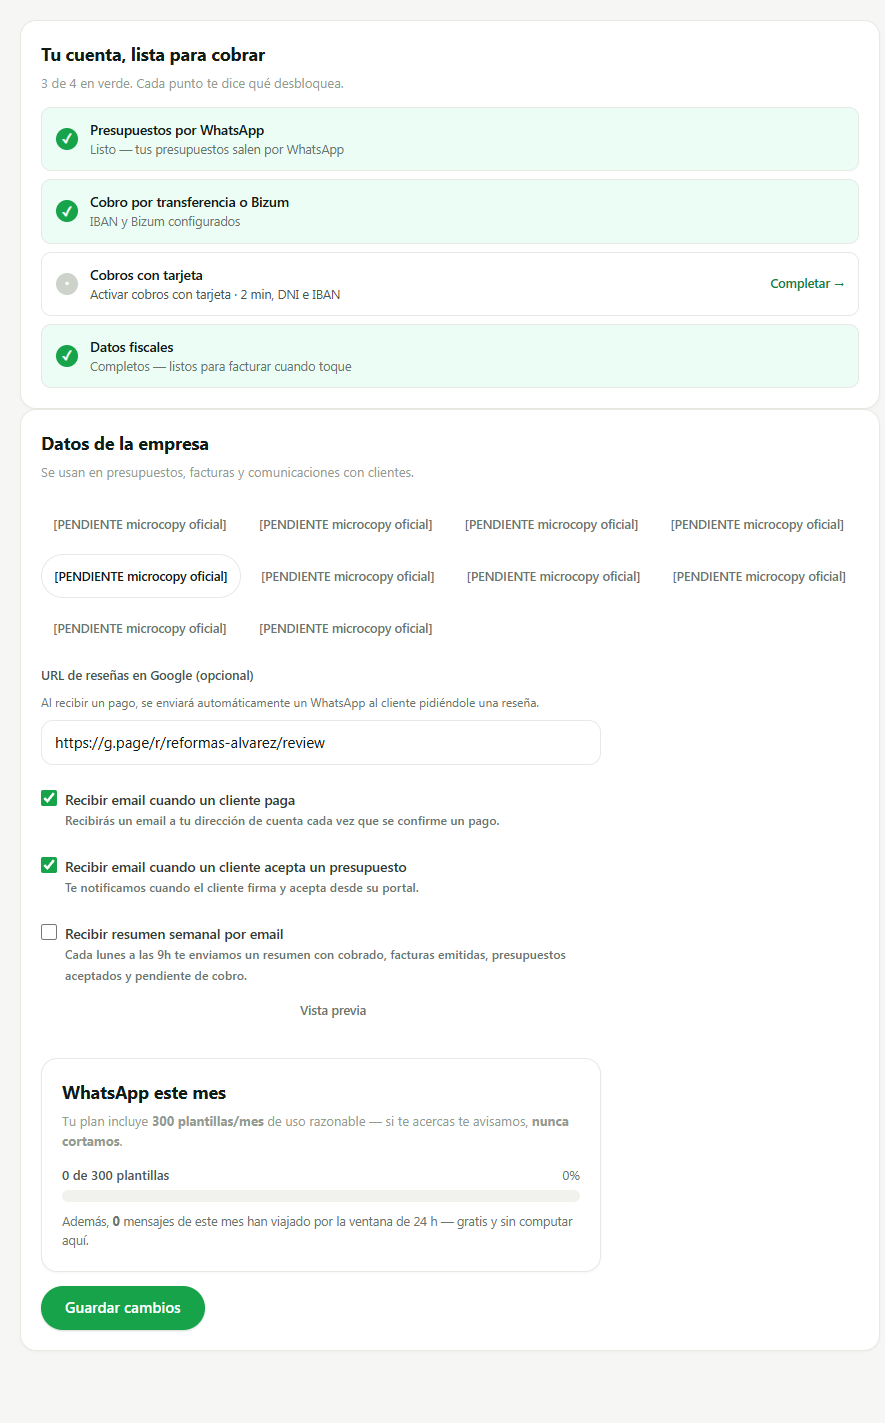
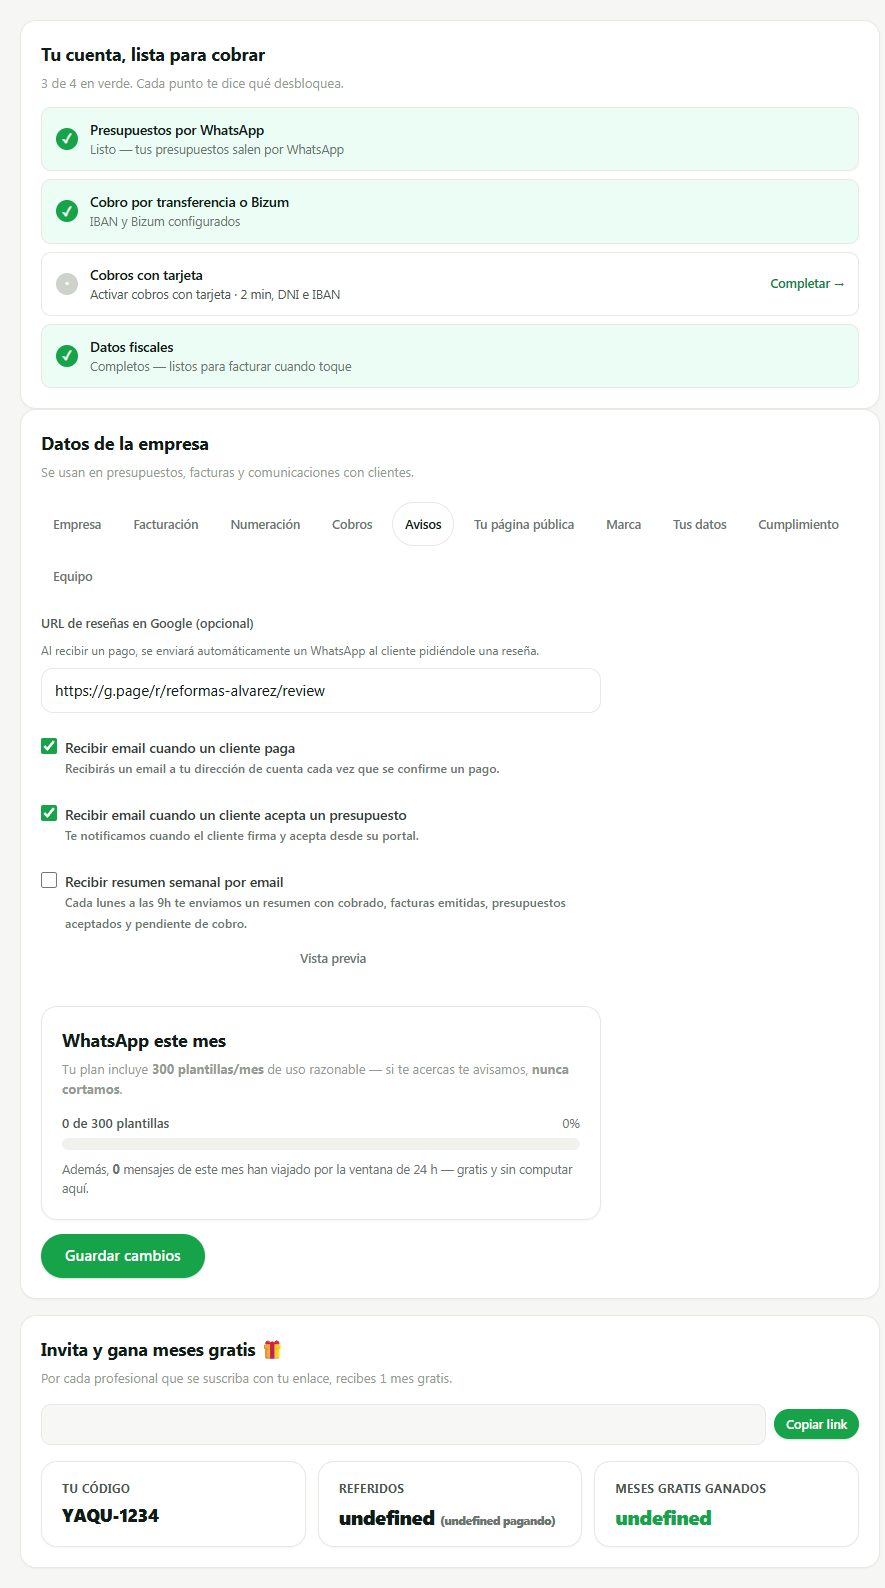
SCRUM-284: rotulos aprobados aplicados y "Invita y gana" enlazada provisional
DOS CORRECCIONES DEL FUNDADOR.

(1) "Invita y gana" SE ENLAZA PROVISIONALMENTE. Yo la deje sin llamar; la
correccion tiene razon: el programa de referidos paga un mes gratis al
referidor, o sea que es DINERO, y que desaparezca de la interfaz "solo durante
un PR" es una regresion real. La orden "el menu crece cuando existe el destino"
valia para crear entradas nuevas, no para dejar huerfana una que ya funcionaba.
Se sigue pintando al final de Configuracion, fuera de los diez paneles, y queda
en SUPERFICIES_PROVISIONALES con lo que la sustituye (incremento 2).

El guard exige LAS DOS MITADES, que es lo que evita que "provisional" se vuelva
permanente: que la colocacion este declarada Y que se siga pintando. Declararla
sin pintarla seria la regresion; pintarla sin declararla seria olvidarla.

(2) LOS DIEZ ROTULOS SE APLICAN. No era redaccion nueva: los nueve primeros
estan en la descripcion del ticket y el decimo es el nombre que uso el fundador
al colocar approvalThreshold. Aterrizarlos no fue escribir microcopy, fue dejar
de usar el marcador.

Y habia un motivo de MEDICION para hacerlo antes de capturar: con el marcador
(28 caracteres) las diez pestanas caian UNA POR FILA a 390 px, asi que las
capturas median el marcador y no la pantalla. Con los textos reales: cuatro
filas (3+3+3+1), pestana mas ancha 124 px, 44 px de alto, sin desbordamiento en
X. NO habia problema de layout: era el marcador. Por eso no sale hallazgo ni
[…]

diff --git a/public/dashboard/js/settingsSubmenus.js b/public/dashboard/js/settingsSubmenus.js
@@ -29,8 +29,43 @@ var SUBMENUS = [
   'publica', 'marca', 'datos', 'cumplimiento', 'equipo',
 ];
 
-// Regla 30: los rótulos de los diez NO están aprobados. Se pintan con el marcador y hay guard.
+// Marcador de regla 30. YA NO lo usan los rótulos de los diez (ver `ROTULOS`), pero sí los textos
+// del estado vacío, que son redacción nueva y NO están aprobados.
 var MARCA_MICROCOPY_SUBMENU = '[PENDIENTE microcopy oficial]';
+
+/**
+ * LOS DIEZ RÓTULOS — APROBADOS por el fundador (5-ago-2026, regla 30).
+ *
+ * No es redacción nueva y por eso se aprobaron de una vez: **los nueve primeros están escritos en la
+ * descripción del ticket** y el décimo es el nombre que usó el fundador al colocar
+ * `approvalThreshold`. Aterrizarlos no es escribir microcopy, es dejar de usar el marcador.
+ *
+ * Y había un motivo de medición para hacerlo YA: con el marcador (28 caracteres) las diez pestañas
+ * caían **una por fila** a 390 px, así que las capturas estaban midiendo el marcador y no la
+ * pantalla. Con los rótulos reales se sabe de verdad cómo se agrupan.
+ *
+ * Fijados carácter a carácter en `tests/scrum284-configuracion-submenus.test.mjs`: cambiarlos sin
+ * pasar por el fundador sale rojo.
+ */
+var ROTULOS = {
+  empresa: 'Empresa',
+  facturacion: 'Facturación',
+  numeracion: 'Numeración',
+  cobro: 'Cobros',
+  avisos: 'Avisos',
+  publica: 'Tu página pública',
+  marca: 'Marca',
+  datos: 'Tus datos',
+  cumplimiento: 'Cumplimiento',
+  equipo: 'Equipo',
+};
+
+/** Rótulo de un submenú. Lanza si falta, por lo mismo que `submenuDeCampo`: mejor ruidoso que mudo. */
+function rotuloDeSubmenu(clave) {
+  var r = ROTULOS[clave];
+  if (!r) throw new Error('[settings] submenú sin rótulo: ' + clave);
+  return r;
+}
 
 /** Asignación campo → submenú. La clave es la del censo; el valor, una clave de `SUBMENUS`. */
 var ASIGNACION_SUBMENU = {
@@ -102,6 +137,26 @@ var ASIGNACION_SUPERFICIE = {
   // Bloque inline (no es una funcion render...): estado de Stripe Connect. Es estado + accion, no
   // un ajuste, pero cae solo en Cobros — es de lo que va el submenu.
   connectStatus: 'cobro',
+};
+
+/**
+ * SUPERFICIES CON COLOCACIÓN PROVISIONAL — declarada, con su fecha de caducidad escrita.
+ *
+ * ⚠ EXISTE PORQUE «TEMPORAL» ES EXACTAMENTE COMO SE QUEDAN LAS COSAS. Sacar «Invita y gana» de
+ * Configuración es correcto y su destino es la barra lateral, pero **su entrada en la barra lateral
+ * es el incremento 2**. Entre un incremento y el otro la tarjeta existiría en el código y no la
+ * llamaría nadie: el programa de referidos paga un mes gratis al referidor, así que dejarla
+ * inalcanzable «solo durante un PR» es una REGRESIÓN DE DINERO, no un detalle de orden.
+ *
+ * Se sigue pintando donde está hoy —tarjeta suelta al final de Configuración, fuera de los diez
+ * paneles— y aquí queda escrito que es provisional y qué la sustituye.
+ */
+var SUPERFICIES_PROVISIONALES = {
+  renderReferralCard:
+    'PROVISIONAL hasta el incremento 2 (sidebar). Su destino es la barra lateral —no es un ajuste, ' +
+    'no persiste nada— pero hasta que exista esa entrada se sigue pintando en Configuración para no ' +
+    'dejar inalcanzable un programa que paga dinero al referidor. Quien haga el incremento 2 quita ' +
+    'esta línea y la llamada de `settingsView.js`.',
 };
 
 /**
@@ -204,6 +259,7 @@ if (typeof window !== 'undefined') {
   window.VACIOS_DECLARADOS = VACIOS_DECLARADOS;
   window.submenuDeCampo = submenuDeCampo;
   window.submenuDeSuperficie = submenuDeSuperficie;
+  window.rotuloDeSubmenu = rotuloDeSubmenu;
   window.ASIGNACION_SUPERFICIE = ASIGNACION_SUPERFICIE;
 }
 if (typeof module !== 'undefined' && module.exports) {
@@ -216,6 +272,9 @@ if (typeof module !== 'undefined' && module.exports) {
     VACIOS_DECLARADOS: VACIOS_DECLARADOS,
     ASIGNACION_SUPERFICIE: ASIGNACION_SUPERFICIE,
     SUPERFICIES_FUERA_DE_LOS_DIEZ: SUPERFICIES_FUERA_DE_LOS_DIEZ,
+    SUPERFICIES_PROVISIONALES: SUPERFICIES_PROVISIONALES,
+    ROTULOS: ROTULOS,
+    rotuloDeSubmenu: rotuloDeSubmenu,
     submenuDeCampo: submenuDeCampo,
     submenuDeSuperficie: submenuDeSuperficie,
     revisarAsignacion: revisarAsignacion,

diff --git a/public/dashboard/js/settingsView.js b/public/dashboard/js/settingsView.js
@@ -60,7 +60,7 @@ function renderSettingsView(container) {
         const b = document.createElement("button");
         b.type = "button";
         b.className = "btn-sm " + (submenuActivo === clave ? "btn-secondary" : "btn-ghost");
-        b.textContent = MARCA_MICROCOPY_SUBMENU;
+        b.textContent = rotuloDeSubmenu(clave);
         b.dataset.submenu = clave;
         b.style.minHeight = "44px"; // AB6: objetivo al pulgar (btn-sm se queda en 30)
         b.setAttribute("role", "tab");
@@ -80,10 +80,15 @@ function renderSettingsView(container) {
     // mapa — y por eso el «tres destinos» deja de existir como problema que resolver eligiendo uno.
     renderReadinessCard(container, card);
 
-    // SCRUM-284: `renderReferralCard` YA NO SE LLAMA AQUÍ. «Invita y gana meses gratis» no es un
-    // ajuste —no guarda nada, es una pantalla con un enlace— y por la regla del fundador («un
-    // ajuste se guarda y persiste») sale de Configuración a la barra lateral. La función se
-    // conserva intacta: mover una tarjeta con render propio es cambiar dónde se la llama.
+    // SCRUM-284 · «Invita y gana»: COLOCACIÓN PROVISIONAL, declarada en `SUPERFICIES_PROVISIONALES`.
+    //
+    // Su destino es la barra lateral —no es un ajuste, no persiste nada— pero esa entrada es el
+    // incremento 2. Dejarla sin llamar entre un incremento y el otro la haría INALCANZABLE, y el
+    // programa de referidos paga un mes gratis al referidor: eso es una regresión de dinero, no un
+    // detalle de orden. Se sigue pintando donde está hoy —tarjeta suelta al final, fuera de los diez
+    // paneles— hasta que exista su destino. Quien haga el incremento 2 borra esta llamada y su
+    // entrada en el mapa.
+    renderReferralCard(container);
     renderPublicProfileCard(panelDeSuperficie("renderPublicProfileCard")); // A14.1 (PERFIL-1): página pública + QR
     // SCRUM-138: "Descargar mis datos" se muda a Finanzas › Descargar datos
     // (public/dashboard/js/exportView.js). Es el entregable para el asesor y para una

diff --git a/docs/capturas/scrum-284/README.md b/docs/capturas/scrum-284/README.md
@@ -1,6 +1,6 @@
 # SCRUM-284 · capturas de Configuración troceada en diez submenús (AB6)
 
-**Medido contra:** `origin/main` = `077fa8ac24d7e832d446a589b31367e9c15de916` · 2026-08-05T06:12:00+01:00
+**Medido contra:** `origin/main` = `c2be01e9347a2b0b761e764de7033f322f820f85` · 2026-08-05T06:25:00+01:00
 
 Producidas con un **harness aislado** (Playwright sobre un servidor estático efímero): se cargan
 `api.js` + `settingsSubmenus.js` + `settingsView.js`, se stubea `apiRequest` con un merchant de
@@ -40,7 +40,8 @@ que ya viven en Empresa y en Cobro.
   pública y la página de recibo solo lo consumen.
 * **«WhatsApp este mes» es un bloque informativo dentro de Avisos**, fuera del mapa y fuera del
   guard: es un contador de consumo y no persiste nada.
-* **«Invita y gana» ya no está** en ninguna parte de Configuración.
+* **«Invita y gana» ya no está en ningún panel** — pero sí al final de la pantalla, fuera de los
+  diez, con colocación **provisional declarada** hasta el incremento 2 (ver más abajo).
 
 ## El reparto, medido en el navegador (no leído del código)
 
@@ -61,25 +62,45 @@ que ya viven en Empresa y en Cobro.
 perdidos.** Los tres paneles vacíos son exactamente los tres declarados. Ningún ajuste desapareció
 en la reorganización, que es el fallo mudo que el ticket nombra.
 
-## 390 px — un vacío declarado
+## 390 px — con los RÓTULOS REALES
 
-![390 · vacío declarado](scrum284-390-vacio-declarado.png)
+![390 · rótulos reales](scrum284-390-rotulos-reales.png)
 
-Un submenú vacío **dice que está vacío** en vez de dejar un panel en blanco que parezca roto: «un
-menú que lleva a una página vacía es peor que no tener el menú». Medido a este ancho:
-`scrollWidth === clientWidth`, **no desborda en X**, y las diez pestañas miden **44 px** de alto
-(AB6 · objetivo al pulgar; `btn-sm` se queda en 30).
+**Aquí está el motivo de aprobar los rótulos antes de capturar.** Con el marcador (28 caracteres) las
+diez pestañas caían **una por fila**, así que la captura anterior medía el marcador y no la pantalla.
+Con los textos aprobados, medido en el navegador a 390 px:
+
+```
+fila 1  Empresa · Facturación · Numeración
+fila 2  Cobros · Avisos · Tu página pública
+fila 3  Marca · Tus datos · Cumplimiento
+fila 4  Equipo
+```
+
+**Cuatro filas (3+3+3+1)**, pestaña más ancha 124 px, **44 px** de alto todas (AB6 · objetivo al
+pulgar; `btn-sm` se queda en 30) y `scrollWidth === clientWidth`: **no desborda en X**.
+
+**No hay problema de layout: era el marcador.** Por eso no sale hallazgo ni ticket — se midió con el
+texto real antes de decidirlo.
 
 ---
 
-**Los diez rótulos son `[PENDIENTE microcopy oficial]`** (regla 30), con guard. Por eso las capturas
-se leen raro: es el marcador ocupando los diez nombres, no el diseño.
+**Los diez rótulos están APROBADOS** por el fundador (5-ago-2026) y fijados carácter a carácter en
+`tests/scrum284-configuracion-submenus.test.mjs`: cambiar uno sale rojo. No eran redacción nueva —
+los nueve primeros vienen escritos en la descripción del ticket y el décimo es el nombre que usó el
+fundador al colocar `approvalThreshold`.
 
-⚠ **OBSERVACIÓN, no arreglada a propósito:** a 390 px las diez pestañas caen **una por fila**,
-porque el marcador son 28 caracteres — más que cualquier rótulo final plausible («Empresa»,
-«Cobros»…). Con los textos aprobados se agruparán en tres o cuatro filas. **Se declara en vez de
-arreglarse**: ajustar el layout contra un texto que va a ser sustituido es optimizar para lo que no
-se va a quedar. Quien aterrice la microcopy tiene que volver a mirar esta barra con los textos reales.
+**El estado vacío SÍ sigue con el marcador**, y la diferencia importa: «aquí todavía no hay nada» no
+está escrito en ninguna parte, así que es microcopy nueva y la aprueba el fundador.
+
+## «Invita y gana»: colocación PROVISIONAL, declarada
+
+Se sigue pintando al final de Configuración, **fuera de los diez paneles**, hasta que el incremento 2
+le dé su entrada en la barra lateral. No se deja sin llamar entre un incremento y otro porque el
+programa **paga un mes gratis al referidor**: dejarlo inalcanzable «solo durante un PR» es una
+regresión de dinero, y «temporal» es exactamente como se quedan las cosas. Está en
+`SUPERFICIES_PROVISIONALES` con lo que la sustituye, y hay guard que exige las dos mitades: que la
+provisional esté declarada **y que se siga pintando**.
 
 ---
 

diff --git a/docs/master/SCRUM-284.md b/docs/master/SCRUM-284.md
@@ -272,8 +272,8 @@ verdad.
 
 ## La pantalla: Configuración troceada en diez submenús (quinta entrega de B1)
 
-**Medido contra:** `origin/main` = `c2be01e9347a2b0b761e764de7033f322f820f85` · 2026-08-05T06:13:36+01:00
-**Tanda:** 1448 tests, 1381 pass, 0 fail, 67 skipped
+**Medido contra:** `origin/main` = `c2be01e9347a2b0b761e764de7033f322f820f85` · 2026-08-05T06:25:00+01:00
+**Tanda:** 1451 tests, 1384 pass, 0 fail, 67 skipped
 **Ficheros:** `public/dashboard/js/settingsSubmenus.js` (nuevo) · `settingsView.js` ·
 `dashboard/index.html` · `sw.js` · `tests/_asignacion-submenus.mjs` ·
 `tests/scrum284-configuracion-submenus.test.mjs` (nuevo, 8) · `docs/capturas/scrum-284/`
@@ -348,15 +348,41 @@ suponerla.
 **guard bidireccional de la entrega anterior sigue en 14/14** después de tocar justo la pantalla que
 vigila — comprobado explícitamente, no por el verde global.
 
+### Dos correcciones del fundador, aplicadas en esta misma rama
+
+**① «Invita y gana» se ENLAZA PROVISIONALMENTE.** Yo la dejé sin llamar y lo propuse como opción; la
+respuesta corrige el criterio y tiene razón: *el programa de referidos paga un mes gratis al
+referidor, o sea que es DINERO, y que desaparezca de la interfaz «solo durante un PR» es una
+regresión real*. La orden «el menú crece cuando existe el destino» valía para crear entradas nuevas,
+**no para dejar huérfana una que ya funcionaba**. Se sigue pintando donde está hoy —tarjeta suelta al
+final, fuera de los diez paneles— y queda en `SUPERFICIES_PROVISIONALES` con lo que la sustituye.
+
+El guard exige **las dos mitades**, y esa es la parte que evita que «provisional» se vuelva
+permanente: que la colocación esté declarada **y** que se siga pintando. Declararla sin pintarla
+sería la regresión; pintarla sin declararla sería olvidarla.
+
+**② Los diez rótulos se APRUEBAN y se aplican.** No era redacción nueva —los nueve primeros están
+escritos en la descripción del ticket y el décimo es el nombre que usó el fundador al colocar
+`approvalThreshold`—, así que aterrizarlos no fue escribir microcopy: fue dejar de usar el marcador.
+
+**Y había un motivo de MEDICIÓN para hacerlo antes de capturar, que es el que no se me había
+ocurrido:** con el marcador (28 caracteres) las diez pestañas caían **una por fila** a 390 px, así
+que mis capturas estaban midiendo el marcador y no la pantalla. Con los textos reales, medido:
+**cuatro filas (3+3+3+1)**, pestaña más ancha 124 px, 44 px de alto, sin desbordamiento en X. **No
+había problema de layout: era el marcador.** Por eso no sale hallazgo ni ticket — se midió con el
+texto real antes de decidirlo, en vez de apañar contra un texto provisional.
+
+El guard de microcopy cambia de forma en consecuencia, igual que en SCRUM-344: deja de exigir el
+marcador —eso solo impedía INVENTAR mientras no había texto— y pasa a **fijar el aprobado carácter a
+carácter**, que es lo que impide CAMBIARLO. Verificado en rojo sobre el módulo real: «Cobros» →
+«Cobro» tumba el test y nombra la ranura. **El estado vacío SÍ sigue con el marcador**, y la
+diferencia importa: «aquí todavía no hay nada» no está escrito en ninguna parte, así que es
+redacción nueva y la aprueba el fundador.
+
 ### Lo que NO cubre
 
-* **La sidebar (incremento 2) y la pestaña de Plantillas (incremento 3) no se tocan.** «Invita y
-  gana» sale de Configuración en este commit; **darle su entrada en la barra lateral es el
-  incremento 2**, así que ahora mismo la tarjeta existe en el código y no la llama nadie. Es
-  deliberado y es el orden que fijó el asesor —el menú crece cuando existe el destino— pero hay que
-  saberlo: **hasta el incremento 2, «Invita y gana» no es alcanzable desde la interfaz.**
-* **Los diez rótulos son el marcador** (regla 30). A 390 px eso hace que las pestañas caigan una por
-  fila; se declara y no se ajusta contra un texto que va a ser sustituido.
+* **La sidebar (incremento 2) y la pestaña de Plantillas (incremento 3) no se tocan.** El incremento
+  2 le da a «Invita y gana» su entrada definitiva y borra su colocación provisional.
 * **La matriz de dispositivos reales** (V0-5) es humana y por bloque. Declarada como hueco.
 * **No se ejecuta la vista en `npm test`**: no hay banco de DOM y montarlo sería dependencia nueva
   (regla 36). Lo que corre es el mapa y el AST; el navegador se ejercitó a mano y quedó en capturas.
